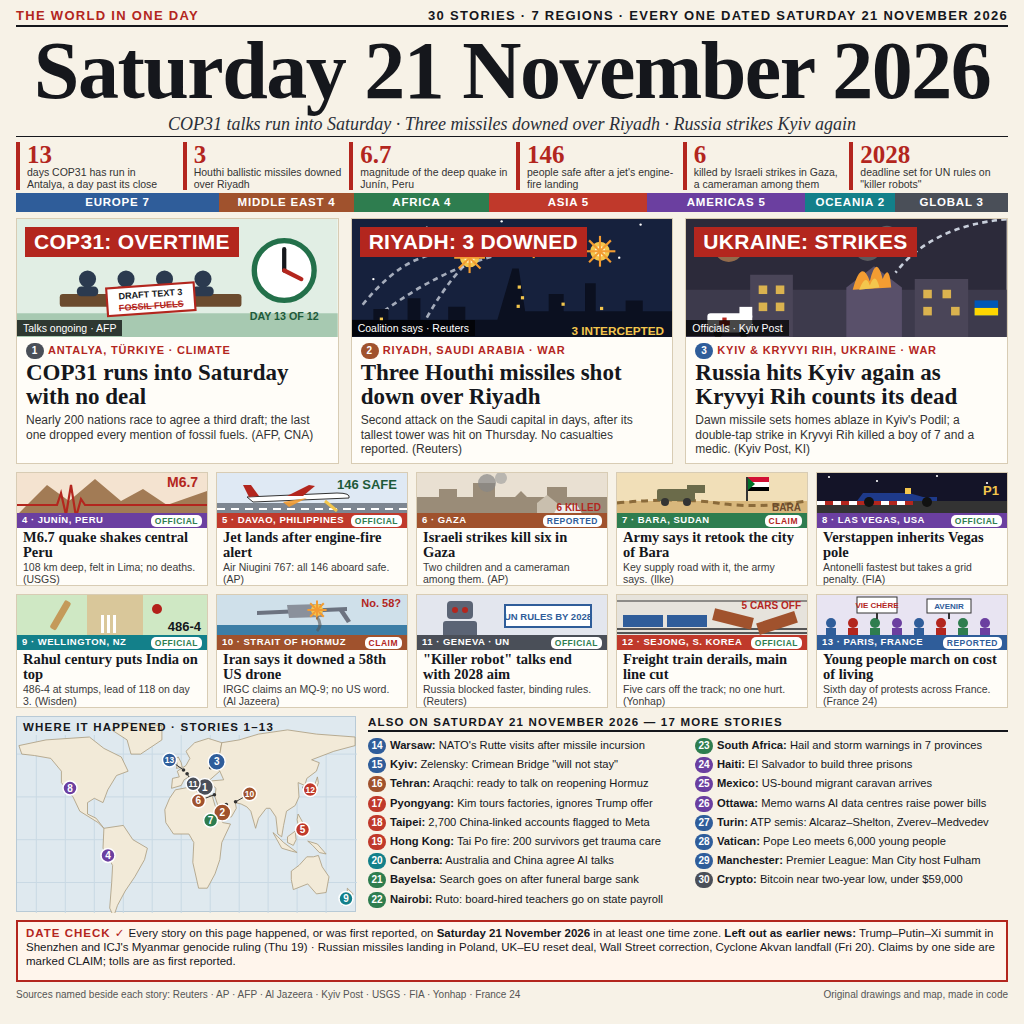
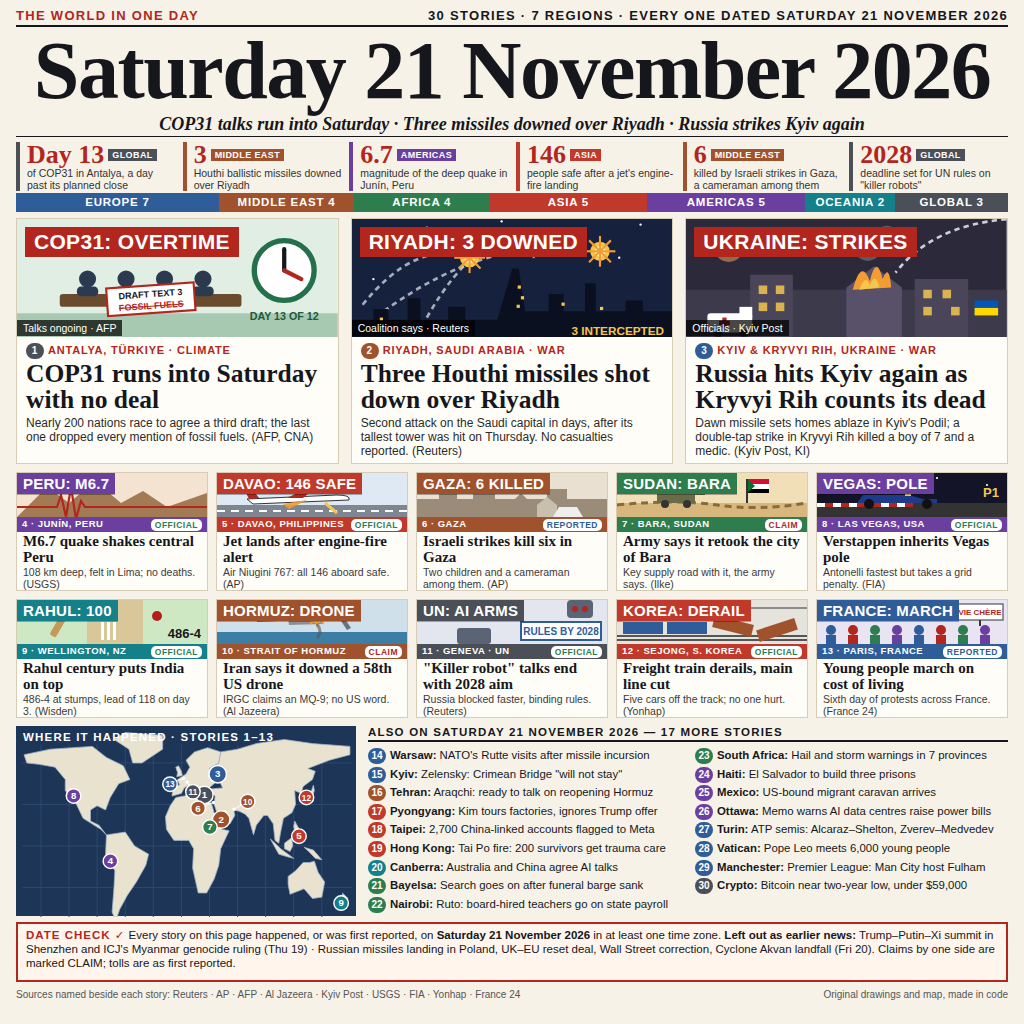
v3: region-coloured picture tags on cards, bigger lead headlines, high-contrast map

Changed region(s): [[0.0, 0.3438, 1.0, 0.9688], [0.0, 0.0938, 0.9688, 0.1875]]

diff --git a/page/index.html b/page/index.html
@@ -14,12 +14,13 @@
   .kick { top: 8px; height: 19px; display: flex; justify-content: space-between; font-size: 13px; font-weight: 700; letter-spacing: 1.3px; color: #b3261e; border-bottom: 2px solid #15171c; }
   .kick span:last-child { color: #15171c; }
   .date { top: 29px; height: 84px; text-align: center; font-family: "Liberation Serif", serif; font-weight: 700; font-size: 82px; line-height: 84px; letter-spacing: -1.5px; white-space: nowrap; }
-  .deck { top: 114px; height: 23px; text-align: center; font-family: "Liberation Serif", serif; font-style: italic; font-size: 18px; color: #2b2f38; border-bottom: 1px solid #15171c; white-space: nowrap; }
+  .deck { top: 114px; height: 23px; text-align: center; font-family: "Liberation Serif", serif; font-style: italic; font-weight: 700; font-size: 18px; color: #15171c; border-bottom: 1px solid #15171c; white-space: nowrap; }
 
   /* numbers */
   .nums { top: 142px; height: 46px; display: grid; grid-template-columns: repeat(6, 1fr); gap: 8px; }
   .num { border-left: 4px solid #b3261e; padding-left: 7px; }
-  .num .v { font-family: "Liberation Serif", serif; font-weight: 700; font-size: 25px; line-height: 25px; color: #b3261e; }
+  .num .v { font-family: "Liberation Serif", serif; font-weight: 700; font-size: 26px; line-height: 25px; color: #b3261e; white-space: nowrap; }
+  .num .v i { font-style: normal; font-family: "Liberation Sans", sans-serif; font-size: 9px; color: #fff; padding: 1px 4px; vertical-align: 5px; margin-left: 4px; letter-spacing: .4px; }
   .num .l { font-size: 10.5px; line-height: 11.5px; color: #333; }
 
   /* region bar */
@@ -33,30 +34,32 @@
   .lead .tag { position: absolute; left: 8px; top: 8px; background: #b3261e; color: #fff; font-weight: 700; font-size: 21px; padding: 3px 9px; letter-spacing: .3px; }
   .lead .st { position: absolute; left: 0; top: 101px; background: rgba(0,0,0,.72); color: #fff; font-size: 10.5px; padding: 2px 6px; }
   .lead .where { font-size: 11px; font-weight: 700; color: #b3261e; letter-spacing: .8px; margin: 6px 9px 0; }
-  .lead h2 { font-family: "Liberation Serif", serif; font-size: 23px; line-height: 24px; margin: 2px 9px 0; }
-  .lead p { font-size: 12px; line-height: 14.5px; color: #333; margin: 4px 9px 0; }
+  .lead h2 { font-family: "Liberation Serif", serif; font-size: 25.5px; line-height: 26px; margin: 2px 9px 0; }
+  .lead p { font-size: 12px; line-height: 14px; color: #2a2a2a; margin: 3px 9px 0; }
 
   /* cards: two rows of five */
-  .cards { top: 472px; height: 236px; display: grid; grid-template-columns: repeat(5, 1fr); grid-template-rows: 1fr 1fr; gap: 8px; }
+  .cards { top: 472px; height: 246px; display: grid; grid-template-columns: repeat(5, 1fr); grid-template-rows: 1fr 1fr; gap: 8px; }
   .card { background: #fffdf8; border: 1px solid #d8ccb4; overflow: hidden; position: relative; }
-  .card svg { display: block; width: 100%; height: 40px; }
+  .card .pic { position: relative; height: 44px; overflow: hidden; }
+  .card svg { display: block; width: 100%; height: 44px; }
+  .card .ct { position: absolute; left: 0; top: 0; color: #fff; font-weight: 700; font-size: 15px; line-height: 19px; padding: 1px 6px; letter-spacing: .2px; box-shadow: 0 1px 0 rgba(0,0,0,.3); }
   .card .w { font-size: 9.5px; font-weight: 700; letter-spacing: .5px; color: #fff; padding: 1px 5px; white-space: nowrap; overflow: hidden; display: flex; justify-content: space-between; }
   .card .w i { font-style: normal; background: #fff; border-radius: 5px; padding: 0 4px; font-size: 8.5px; line-height: 12px; margin-top: 1px; }
-  .card h3 { font-family: "Liberation Serif", serif; font-size: 14.5px; line-height: 15px; margin: 2px 6px 0; }
+  .card h3 { font-family: "Liberation Serif", serif; font-size: 15px; line-height: 15.5px; margin: 2px 6px 0; }
   .card p { font-size: 10.5px; line-height: 12px; color: #3a3a3a; margin: 1px 6px 0; }
 
   /* map + more */
-  .low { top: 716px; height: 196px; }
-  .map { position: absolute; left: 0; top: 0; width: 340px; height: 196px; background: #dfe9ef; border: 1px solid #b8cad6; }
-  .more { position: absolute; left: 352px; top: 0; width: 640px; height: 196px; }
+  .low { top: 726px; height: 190px; }
+  .map { position: absolute; left: 0; top: 0; width: 340px; height: 190px; background: #1d3557; border: 1px solid #1d3557; }
+  .more { position: absolute; left: 352px; top: 0; width: 640px; height: 190px; }
   .more .h, .map .h { font-size: 11.5px; font-weight: 700; letter-spacing: 1.2px; color: #15171c; }
-  .map .h { position: absolute; left: 6px; top: 4px; }
+  .map .h { position: absolute; left: 6px; top: 4px; color: #fff; }
   .more .h { border-bottom: 2px solid #15171c; padding-bottom: 2px; }
   .more ul { list-style: none; columns: 2; column-gap: 14px; margin-top: 4px; }
-  .more li { font-size: 11.2px; line-height: 19.2px; white-space: nowrap; overflow: hidden; break-inside: avoid; }
+  .more li { font-size: 11.4px; line-height: 18.6px; white-space: nowrap; overflow: hidden; break-inside: avoid; }
   .n { display: inline-block; min-width: 18px; height: 16px; border-radius: 8px; color: #fff; font-size: 10px; font-weight: 700; text-align: center; line-height: 16px; margin-right: 4px; padding: 0 3px; }
 
-  .check { top: 920px; height: 62px; border: 2px solid #b3261e; background: #fff5ec; padding: 4px 8px; font-size: 11.5px; line-height: 14px; }
+  .check { top: 922px; height: 60px; border: 2px solid #b3261e; background: #fff5ec; padding: 4px 8px; font-size: 11.5px; line-height: 14px; }
   .check b.k { color: #b3261e; letter-spacing: 1px; }
   .foot { top: 988px; height: 30px; font-size: 10px; line-height: 13px; color: #555; display: flex; justify-content: space-between; gap: 20px; }
 </style>
@@ -70,7 +73,7 @@
 <div class="band leads" id="leads"></div>
 <div class="band cards" id="cards"></div>
 <div class="band low">
-  <div class="map"><span class="h">WHERE IT HAPPENED · STORIES 1–13</span><svg id="map" width="340" height="196" viewBox="0 0 340 196"></svg></div>
+  <div class="map"><span class="h">WHERE IT HAPPENED · STORIES 1–13</span><svg id="map" width="340" height="190" viewBox="0 0 340 196"></svg></div>
   <div class="more"><div class="h" id="moreh"></div><ul id="more"></ul></div>
 </div>
 <div class="band check" id="check"></div>
@@ -97,14 +100,14 @@ $('kick').textContent = EDITION.kicker;
 $('count').textContent = `${all.length} STORIES · ${order.length} REGIONS · EVERY ONE DATED ${EDITION.date.toUpperCase()}`;
 $('date').textContent = EDITION.date;
 $('deck').textContent = EDITION.deck;
-$('nums').innerHTML = NUMS.map(([v, l]) => `<div class="num"><div class="v">${v}</div><div class="l">${l}</div></div>`).join('');
+$('nums').innerHTML = NUMS.map(([v, r, l]) => `<div class="num" style="border-color:${REG[r][1]}"><div class="v">${v}<i style="background:${REG[r][1]}">${REG[r][0].toUpperCase()}</i></div><div class="l">${l}</div></div>`).join('');
 
 const pin = s => `<span class="n" style="background:${REG[s.region][1]}">${s.n}</span>`;
 $('leads').innerHTML = LEADS.map(s => `<div class="lead">${ART[s.art](300, 118)}<div class="tag">${s.tag}</div><div class="st">${s.status}</div>
   <div class="where">${pin(s)}${s.place}</div><h2>${s.h}</h2><p>${s.p}</p></div>`).join('');
 
 const BADGE = { official: ['OFFICIAL', '#2e7d4f'], reported: ['REPORTED', '#2f5d9a'], claim: ['CLAIM', '#b3261e'] };
-$('cards').innerHTML = CARDS.map(s => `<div class="card">${ART[s.art](190, 40)}
+$('cards').innerHTML = CARDS.map(s => `<div class="card"><div class="pic">${ART[s.art](190, 46)}<span class="ct" style="background:${REG[s.region][1]}">${s.tag}</span></div>
   <div class="w" style="background:${REG[s.region][1]}"><span>${s.n} · ${s.place}</span><i style="color:${BADGE[s.status][1]}">${BADGE[s.status][0]}</i></div>
   <h3>${s.h}</h3><p>${s.p}</p></div>`).join('');
 

diff --git a/page/art.js b/page/art.js
@@ -57,7 +57,7 @@ const ART = {
     <rect width="190" height="44" fill="#f4e3d0"/>
     <path d="M0 44 L30 14 L52 30 L78 8 L104 30 L126 18 L150 34 L190 20 V44 Z" fill="#a27b55"/>
     <path d="M0 34 h40 l4 -12 l5 22 l5 -30 l5 32 l5 -18 l4 6 h122" stroke="#b3261e" stroke-width="2.2" fill="none"/>
-    ${T(150, 16, 14, '#b3261e', 'M6.7')}`),
+    `),
 
   plane: (w, h) => svg(w, h, '0 0 190 44', `
     <rect width="190" height="44" fill="#dfe9f4"/>
@@ -67,14 +67,14 @@ const ART = {
     <path d="M70 25 L92 14 L98 15 L86 25 Z" fill="#b3261e"/><path d="M32 26 L26 14 L34 14 L42 25 Z" fill="#b3261e"/>
     <path d="M90 27 L76 34 L72 36 L66 31 Z" fill="#f39c32" opacity=".9"/>
     <path d="M108 30 L120 40" stroke="#f3c64d" stroke-width="3"/>
-    ${T(150, 18, 13, '#1e5a3a', '146 SAFE', 'middle')}`),
+    `),
 
   gaza: (w, h) => svg(w, h, '0 0 190 44', `
     <rect width="190" height="44" fill="#e9e0d2"/>
     <path d="M0 44 V26 h22 v-8 h18 v8 h16 v-14 h22 v14 h20 l6 -6 l6 6 h20 v-10 h20 v10 h40 V44 Z" fill="#9a8c78"/>
     <circle cx="70" cy="12" r="9" fill="#888" opacity=".7"/><circle cx="84" cy="7" r="6" fill="#999" opacity=".6"/>
     <path d="M120 44 v-12 l10 -8 l10 8 v12 Z" fill="#c9bfae"/><path d="M136 44 h30 l-6 -10 h-18 Z" fill="#eee"/>
-    ${T(184, 40, 10, '#b3261e', '6 KILLED', 'end')}`),
+    `),
 
   sudan: (w, h) => svg(w, h, '0 0 190 44', `
     <rect width="190" height="44" fill="#f1dfb8"/>
@@ -83,7 +83,7 @@ const ART = {
     <rect x="40" y="18" width="38" height="12" rx="2" fill="#6b6b4a"/><rect x="70" y="14" width="18" height="8" fill="#6b6b4a"/><circle cx="48" cy="31" r="4" fill="#333"/><circle cx="70" cy="31" r="4" fill="#333"/>
     <rect x="130" y="6" width="22" height="14" fill="#d21034"/><rect x="130" y="11" width="22" height="5" fill="#fff"/><rect x="130" y="16" width="22" height="4" fill="#000"/><path d="M130 6 L138 13 L130 20 Z" fill="#007229"/>
     <line x1="130" y1="6" x2="130" y2="30" stroke="#333" stroke-width="2"/>
-    ${T(184, 40, 10, '#6b4b2e', 'BARA', 'end')}`),
+    `),
 
   f1: (w, h) => svg(w, h, '0 0 190 44', `
     <rect width="190" height="44" fill="#141428"/>
@@ -109,14 +109,14 @@ const ART = {
     <path d="M126 16 L134 28 L130 30 L122 18 Z" fill="#6c7380"/>
     ${burst(100, 17, 6)}
     <path d="M100 24 q6 8 0 14" stroke="#555" stroke-width="3" fill="none" opacity=".6"/>
-    ${T(184, 14, 11, '#b3261e', 'No. 58?', 'end')}`),
+    `),
 
   robot: (w, h) => svg(w, h, '0 0 190 44', `
     <rect width="190" height="44" fill="#e3e6ee"/>
-    <rect x="30" y="8" width="26" height="18" rx="4" fill="#5b6475"/><circle cx="38" cy="17" r="3" fill="#b3261e"/><circle cx="48" cy="17" r="3" fill="#b3261e"/>
-    <rect x="26" y="28" width="34" height="16" rx="3" fill="#5b6475"/>
-    <rect x="88" y="12" width="86" height="22" fill="#fff" stroke="#2f5d9a" stroke-width="2"/>
-    ${T(131, 27, 9.5, '#2f5d9a', 'UN RULES BY 2028', 'middle')}`),
+    <rect x="150" y="0" width="26" height="18" rx="4" fill="#5b6475"/><circle cx="158" cy="9" r="3" fill="#b3261e"/><circle cx="168" cy="9" r="3" fill="#b3261e"/>
+    <rect x="40" y="28" width="34" height="16" rx="3" fill="#5b6475"/>
+    <rect x="104" y="22" width="80" height="18" fill="#fff" stroke="#2f5d9a" stroke-width="2"/>
+    ${T(144, 35, 10, '#2f5d9a', 'RULES BY 2028', 'middle')}`),
 
   train: (w, h) => svg(w, h, '0 0 190 44', `
     <rect width="190" height="44" fill="#e6e3dc"/>
@@ -125,14 +125,13 @@ const ART = {
     <rect x="6" y="22" width="40" height="12" fill="#2f5d9a"/><rect x="50" y="22" width="40" height="12" fill="#2f5d9a"/>
     <rect x="96" y="20" width="40" height="12" fill="#a0522d" transform="rotate(14 116 26)"/>
     <rect x="140" y="24" width="40" height="12" fill="#a0522d" transform="rotate(-18 160 30)"/>
-    ${T(184, 16, 10, '#b3261e', '5 CARS OFF', 'end')}`),
+    `),
 
   protest: (w, h) => svg(w, h, '0 0 190 44', `
     <rect width="190" height="44" fill="#e8e4f2"/>
     ${[14, 36, 58, 80, 102, 124, 146, 168].map((x, i) => `<circle cx="${x}" cy="30" r="5" fill="${['#2f5d9a', '#b3261e', '#2e7d4f', '#6b3fa0'][i % 4]}"/><rect x="${x - 5}" y="35" width="10" height="9" fill="${['#2f5d9a', '#b3261e', '#2e7d4f', '#6b3fa0'][i % 4]}"/>`).join('')}
-    <rect x="40" y="4" width="40" height="16" fill="#fff" stroke="#333"/><line x1="60" y1="20" x2="60" y2="26" stroke="#333" stroke-width="2"/>
-    <rect x="110" y="6" width="44" height="14" fill="#fff" stroke="#333"/><line x1="132" y1="20" x2="132" y2="26" stroke="#333" stroke-width="2"/>
-    ${T(60, 15, 8, '#b3261e', 'VIE CHÈRE', 'middle')}${T(132, 16, 8, '#2f5d9a', 'AVENIR', 'middle')}`),
+    <rect x="140" y="4" width="46" height="16" fill="#fff" stroke="#333"/><line x1="163" y1="20" x2="163" y2="26" stroke="#333" stroke-width="2"/>
+    ${T(163, 15, 8, '#b3261e', 'VIE CHÈRE', 'middle')}`),
 };
 
 // ---------- locator map: rough continents drawn from (lon, lat) outlines, equirectangular ----------
@@ -158,13 +157,13 @@ const LAND = [
 function drawMap(stories, REG) {
   const W = 340, H = 196, x = lon => (lon + 170) / 352 * W, y = lat => (72 - lat) / 122 * (H - 22) + 20;
   let s = '';
-  for (let g = -150; g <= 150; g += 30) s += `<line x1="${x(g).toFixed(1)}" y1="18" x2="${x(g).toFixed(1)}" y2="${H}" stroke="#c9d9e4" stroke-width="1"/>`;
-  for (let t = -60; t <= 60; t += 30) s += `<line x1="0" y1="${y(t).toFixed(1)}" x2="${W}" y2="${y(t).toFixed(1)}" stroke="#c9d9e4" stroke-width="1"/>`;
-  s += LAND.map(p => `<polygon points="${p.map(([lo, la]) => `${x(lo).toFixed(1)},${y(la).toFixed(1)}`).join(' ')}" fill="#f2ead8" stroke="#a99a7c" stroke-width=".8"/>`).join('');
+  for (let g = -150; g <= 150; g += 30) s += `<line x1="${x(g).toFixed(1)}" y1="18" x2="${x(g).toFixed(1)}" y2="${H}" stroke="#2c4a70" stroke-width="1"/>`;
+  for (let t = -60; t <= 60; t += 30) s += `<line x1="0" y1="${y(t).toFixed(1)}" x2="${W}" y2="${y(t).toFixed(1)}" stroke="#2c4a70" stroke-width="1"/>`;
+  s += LAND.map(p => `<polygon points="${p.map(([lo, la]) => `${x(lo).toFixed(1)},${y(la).toFixed(1)}`).join(' ')}" fill="#e9e2cf" stroke="#9fb3c8" stroke-width=".8"/>`).join('');
   for (const st of stories) {
     if (!st.at) continue;
-    const [lo, la, dx = 0, dy = 0] = st.at, px = x(lo), py = y(la), bx = px + dx, by = py + dy, r = st.n <= 3 ? 8.5 : 7;
-    if (dx || dy) s += `<line x1="${px.toFixed(1)}" y1="${py.toFixed(1)}" x2="${bx.toFixed(1)}" y2="${by.toFixed(1)}" stroke="#333" stroke-width="1"/><circle cx="${px.toFixed(1)}" cy="${py.toFixed(1)}" r="1.8" fill="#333"/>`;
+    const [lo, la, dx = 0, dy = 0] = st.at, px = x(lo), py = y(la), bx = px + dx, by = py + dy, r = st.n <= 3 ? 9 : 7.5;
+    if (dx || dy) s += `<line x1="${px.toFixed(1)}" y1="${py.toFixed(1)}" x2="${bx.toFixed(1)}" y2="${by.toFixed(1)}" stroke="#fff" stroke-width="1"/><circle cx="${px.toFixed(1)}" cy="${py.toFixed(1)}" r="1.8" fill="#fff"/>`;
     s += `<circle cx="${bx.toFixed(1)}" cy="${by.toFixed(1)}" r="${r}" fill="${REG[st.region][1]}" stroke="#fff" stroke-width="1.5"/>` +
       `<text x="${bx.toFixed(1)}" y="${(by + 3.4).toFixed(1)}" font-size="${st.n > 9 ? 8.5 : 10}" text-anchor="middle" font-weight="700" fill="#fff" font-family="Liberation Sans">${st.n}</text>`;
   }

diff --git a/page/data.js b/page/data.js
@@ -9,12 +9,12 @@ const EDITION = {
 };
 
 const NUMS = [
-  ['13', 'days COP31 has run in Antalya, a day past its close'],
-  ['3', 'Houthi ballistic missiles downed over Riyadh'],
-  ['6.7', 'magnitude of the deep quake in Junín, Peru'],
-  ['146', 'people safe after a jet\'s engine-fire landing'],
-  ['6', 'killed by Israeli strikes in Gaza, a cameraman among them'],
-  ['2028', 'deadline set for UN rules on "killer robots"'],
+  ['Day 13', 'GL', 'of COP31 in Antalya, a day past its planned close'],
+  ['3', 'ME', 'Houthi ballistic missiles downed over Riyadh'],
+  ['6.7', 'AM', 'magnitude of the deep quake in Junín, Peru'],
+  ['146', 'AS', 'people safe after a jet\'s engine-fire landing'],
+  ['6', 'ME', 'killed by Israeli strikes in Gaza, a cameraman among them'],
+  ['2028', 'GL', 'deadline set for UN rules on "killer robots"'],
 ];
 
 const LEADS = [
@@ -24,22 +24,22 @@ const LEADS = [
   { region: 'ME', place: 'RIYADH, SAUDI ARABIA · WAR', art: 'riyadh', at: [46.7, 24.7, -4, 8], tag: 'RIYADH: 3 DOWNED', status: 'Coalition says · Reuters',
     h: 'Three Houthi missiles shot down over Riyadh',
     p: 'Second attack on the Saudi capital in days, after its tallest tower was hit on Thursday. No casualties reported. (Reuters)' },
-  { region: 'EU', place: 'KYIV & KRYVYI RIH, UKRAINE · WAR', art: 'kyiv', at: [30.5, 50.5, 6, -6], tag: 'UKRAINE: STRIKES', status: 'Officials · Kyiv Post',
+  { region: 'EU', place: 'KYIV & KRYVYI RIH, UKRAINE · WAR', art: 'kyiv', at: [30.5, 50.5, 8, -2], tag: 'UKRAINE: STRIKES', status: 'Officials · Kyiv Post',
     h: 'Russia hits Kyiv again as Kryvyi Rih counts its dead',
     p: 'Dawn missile sets homes ablaze in Kyiv\'s Podil; a double-tap strike in Kryvyi Rih killed a boy of 7 and a medic. (Kyiv Post, KI)' },
 ];
 
 const CARDS = [
-  { region: 'AM', place: 'JUNÍN, PERU', art: 'quake', at: [-75.8, -11.0], h: 'M6.7 quake shakes central Peru', p: '108 km deep, felt in Lima; no deaths. (USGS)', status: 'official' },
-  { region: 'AS', place: 'DAVAO, PHILIPPINES', art: 'plane', at: [125.6, 7.1], h: 'Jet lands after engine-fire alert', p: 'Air Niugini 767: all 146 aboard safe. (AP)', status: 'official' },
-  { region: 'ME', place: 'GAZA', art: 'gaza', at: [34.4, 31.5, -16, 6], h: 'Israeli strikes kill six in Gaza', p: 'Two children and a cameraman among them. (AP)', status: 'reported' },
-  { region: 'AF', place: 'BARA, SUDAN', art: 'sudan', at: [30.4, 13.6], h: 'Army says it retook the city of Bara', p: 'Key supply road with it, the army says. (Ilke)', status: 'claim' },
-  { region: 'AM', place: 'LAS VEGAS, USA', art: 'f1', at: [-115.1, 36.2], h: 'Verstappen inherits Vegas pole', p: 'Antonelli fastest but takes a grid penalty. (FIA)', status: 'official' },
-  { region: 'OC', place: 'WELLINGTON, NZ', art: 'cricket', at: [174.8, -41.3, -4, 0], h: 'Rahul century puts India on top', p: '486-4 at stumps, lead of 118 on day 3. (Wisden)', status: 'official' },
-  { region: 'ME', place: 'STRAIT OF HORMUZ', art: 'drone', at: [56.3, 26.6, 14, -8], h: 'Iran says it downed a 58th US drone', p: 'IRGC claims an MQ-9; no US word. (Al Jazeera)', status: 'claim' },
-  { region: 'GL', place: 'GENEVA · UN', art: 'robot', at: [6.1, 46.2, 6, 10], h: '"Killer robot" talks end with 2028 aim', p: 'Russia blocked faster, binding rules. (Reuters)', status: 'official' },
-  { region: 'AS', place: 'SEJONG, S. KOREA', art: 'train', at: [127.3, 36.5, 6, 2], h: 'Freight train derails, main line cut', p: 'Five cars off the track; no one hurt. (Yonhap)', status: 'official' },
-  { region: 'EU', place: 'PARIS, FRANCE', art: 'protest', at: [2.35, 48.86, -14, -10], h: 'Young people march on cost of living', p: 'Sixth day of protests across France. (France 24)', status: 'reported' },
+  { region: 'AM', place: 'JUNÍN, PERU', art: 'quake', tag: 'PERU: M6.7', at: [-75.8, -11.0], h: 'M6.7 quake shakes central Peru', p: '108 km deep, felt in Lima; no deaths. (USGS)', status: 'official' },
+  { region: 'AS', place: 'DAVAO, PHILIPPINES', art: 'plane', tag: 'DAVAO: 146 SAFE', at: [125.6, 7.1], h: 'Jet lands after engine-fire alert', p: 'Air Niugini 767: all 146 aboard safe. (AP)', status: 'official' },
+  { region: 'ME', place: 'GAZA', art: 'gaza', tag: 'GAZA: 6 KILLED', at: [34.4, 31.5, -16, 6], h: 'Israeli strikes kill six in Gaza', p: 'Two children and a cameraman among them. (AP)', status: 'reported' },
+  { region: 'AF', place: 'BARA, SUDAN', art: 'sudan', tag: 'SUDAN: BARA', at: [30.4, 13.6], h: 'Army says it retook the city of Bara', p: 'Key supply road with it, the army says. (Ilke)', status: 'claim' },
+  { region: 'AM', place: 'LAS VEGAS, USA', art: 'f1', tag: 'VEGAS: POLE', at: [-115.1, 36.2], h: 'Verstappen inherits Vegas pole', p: 'Antonelli fastest but takes a grid penalty. (FIA)', status: 'official' },
+  { region: 'OC', place: 'WELLINGTON, NZ', art: 'cricket', tag: 'RAHUL: 100', at: [174.8, -41.3, -4, 0], h: 'Rahul century puts India on top', p: '486-4 at stumps, lead of 118 on day 3. (Wisden)', status: 'official' },
+  { region: 'ME', place: 'STRAIT OF HORMUZ', art: 'drone', tag: 'HORMUZ: DRONE', at: [56.3, 26.6, 14, -8], h: 'Iran says it downed a 58th US drone', p: 'IRGC claims an MQ-9; no US word. (Al Jazeera)', status: 'claim' },
+  { region: 'GL', place: 'GENEVA · UN', art: 'robot', tag: 'UN: AI ARMS', at: [6.1, 46.2, 6, 10], h: '"Killer robot" talks end with 2028 aim', p: 'Russia blocked faster, binding rules. (Reuters)', status: 'official' },
+  { region: 'AS', place: 'SEJONG, S. KOREA', art: 'train', tag: 'KOREA: DERAIL', at: [127.3, 36.5, 6, 2], h: 'Freight train derails, main line cut', p: 'Five cars off the track; no one hurt. (Yonhap)', status: 'official' },
+  { region: 'EU', place: 'PARIS, FRANCE', art: 'protest', tag: 'FRANCE: MARCH', at: [2.35, 48.86, -14, 6], h: 'Young people march on cost of living', p: 'Sixth day of protests across France. (France 24)', status: 'reported' },
 ];
 
 const MORE = [
